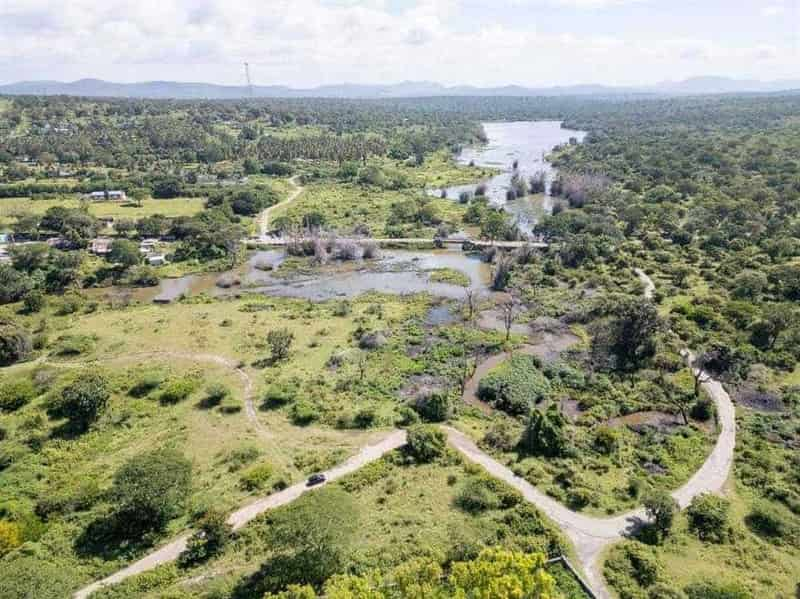
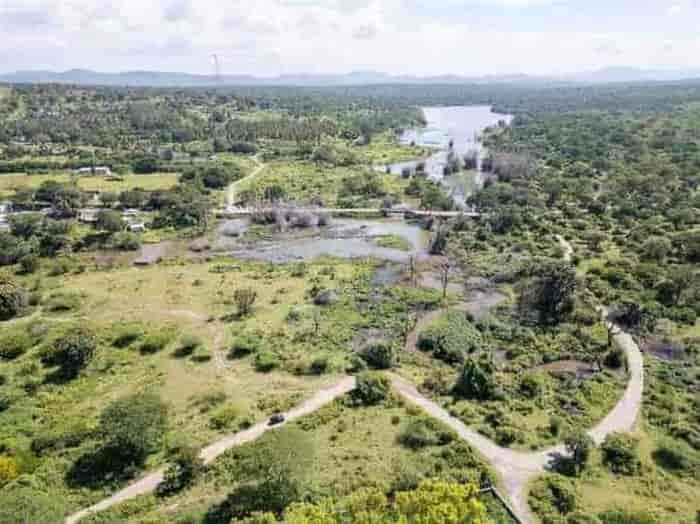
perf: aggressively optimize hero image to 32KB and tour card images to w=300 q=35 webp

diff --git a/src/data/travelData.js b/src/data/travelData.js
@@ -271,7 +271,7 @@ export const toursData = [
     rating: 4.9,
     reviewsCount: 142,
     badge: 'Bestseller',
-    image: 'https://images.unsplash.com/photo-1589182373726-e4f658ab50f0?auto=format&fit=crop&w=400&q=55&fm=webp',
+    image: 'https://images.unsplash.com/photo-1589182373726-e4f658ab50f0?auto=format&fit=crop&w=300&q=35&fm=webp',
     description: 'Explore the princess of hill stations with boat rides on Kodai Lake, Pillar Rocks, Coakers Walk, and serene pine forests.',
     highlights: [
       'Boating on star-shaped Kodaikanal Lake',
@@ -307,7 +307,7 @@ export const toursData = [
     rating: 5.0,
     reviewsCount: 210,
     badge: 'Top Rated',
-    image: 'https://images.unsplash.com/photo-1602216056096-3b40cc0c9944?auto=format&fit=crop&w=400&q=55&fm=webp',
+    image: 'https://images.unsplash.com/photo-1602216056096-3b40cc0c9944?auto=format&fit=crop&w=300&q=35&fm=webp',
     description: 'Breathe the crisp mountain air amidst boundless tea estates, cascading waterfalls, and spice plantation walks.',
     highlights: [
       'Rolling carpet tea plantations of Mattupetty',
@@ -339,7 +339,7 @@ export const toursData = [
     rating: 4.8,
     reviewsCount: 98,
     badge: 'Family Favorite',
-    image: 'https://images.unsplash.com/photo-1544735716-392fe2489ffa?auto=format&fit=crop&w=600&q=70&auto=format',
+    image: 'https://images.unsplash.com/photo-1544735716-392fe2489ffa?auto=format&fit=crop&w=300&q=35&fm=webp',
     description: 'Ride the UNESCO Nilgiri Mountain Railway, visit botanical gardens, tea factories, and enjoy boating on Pykara Lake.',
     highlights: [
       'Historic Nilgiri Mountain Toy Train ride',
@@ -369,7 +369,7 @@ export const toursData = [
     rating: 4.9,
     reviewsCount: 185,
     badge: 'Spiritual Trail',
-    image: 'https://images.unsplash.com/photo-1609766857041-ed402ea8069a?auto=format&fit=crop&w=600&q=70&auto=format',
+    image: 'https://images.unsplash.com/photo-1609766857041-ed402ea8069a?auto=format&fit=crop&w=300&q=35&fm=webp',
     description: 'Experience majestic Dravidian architecture, sacred 22 theerthams, Pamban Sea Bridge, and the ghost town of Dhanushkodi.',
     highlights: [
       'Madurai Meenakshi Amman Temple darshan',
@@ -400,7 +400,7 @@ export const toursData = [
     rating: 4.8,
     reviewsCount: 110,
     badge: 'Relaxation',
-    image: 'https://images.unsplash.com/photo-1506744038136-46273834b3fb?auto=format&fit=crop&w=600&q=70&auto=format',
+    image: 'https://images.unsplash.com/photo-1506744038136-46273834b3fb?auto=format&fit=crop&w=300&q=35&fm=webp',
     description: 'Immerse in the Scotland of India with fragrant coffee plantations, Tibetan Golden Temple, and gushing Abbey Falls.',
     highlights: [
       'Dubare Elephant Camp river rafting & bathing',
@@ -425,7 +425,7 @@ export const toursData = [
     rating: 4.9,
     reviewsCount: 88,
     badge: 'International Special',
-    image: 'https://images.unsplash.com/photo-1537996194471-e657df975ab4?auto=format&fit=crop&w=600&q=70&auto=format',
+    image: 'https://images.unsplash.com/photo-1537996194471-e657df975ab4?auto=format&fit=crop&w=300&q=35&fm=webp',
     description: 'Paradise on earth: lush Ubud rice terraces, cliff-top Uluwatu sunsets with Kecak fire dance, and Nusa Penida island hopping.',
     highlights: [
       'Tegalalang Rice Terraces & Jungle Swing',
@@ -458,7 +458,7 @@ export const toursData = [
     rating: 5.0,
     reviewsCount: 64,
     badge: 'Luxury Global',
-    image: 'https://images.unsplash.com/photo-1530122037265-a5f1f91d3b99?auto=format&fit=crop&w=600&q=70&auto=format',
+    image: 'https://images.unsplash.com/photo-1530122037265-a5f1f91d3b99?auto=format&fit=crop&w=300&q=35&fm=webp',
     description: 'Breathtaking Swiss Alps, crystal-clear Lake Lucerne, Jungfraujoch Top of Europe, and fairytale Black Forest.',
     highlights: [
       'Cogwheel train to Jungfraujoch summit',
@@ -487,7 +487,7 @@ export const toursData = [
     rating: 4.9,
     reviewsCount: 94,
     badge: 'Adventure & Peace',
-    image: 'https://images.unsplash.com/photo-1544735716-392fe2489ffa?auto=format&fit=crop&w=600&q=70&auto=format',
+    image: 'https://images.unsplash.com/photo-1544735716-392fe2489ffa?auto=format&fit=crop&w=300&q=35&fm=webp',
     description: 'Snow-capped peaks of Manali, Solang Valley paragliding, Atal Tunnel, and serene apple orchards of Naggar.',
     highlights: [
       'Atal Tunnel drive to snow-clad Sissu waterfall',
@@ -515,7 +515,7 @@ export const toursData = [
     rating: 4.9,
     reviewsCount: 160,
     badge: 'Trending Tour',
-    image: 'https://images.unsplash.com/photo-1602216056096-3b40cc0c9944?auto=format&fit=crop&w=600&q=70&auto=format',
+    image: 'https://images.unsplash.com/photo-1602216056096-3b40cc0c9944?auto=format&fit=crop&w=300&q=35&fm=webp',
     description: 'Cruise emerald palm backwaters on an authentic luxury houseboat, explore Fort Kochi colonial history, and taste fresh coastal Kerala cuisine.',
     highlights: [
       'Overnight private AC houseboat stay in Alleppey',
@@ -546,7 +546,7 @@ export const toursData = [
     rating: 5.0,
     reviewsCount: 135,
     badge: 'Luxury Vacation',
-    image: 'https://images.unsplash.com/photo-1548013146-72479768bbaa?auto=format&fit=crop&w=600&q=70&auto=format',
+    image: 'https://images.unsplash.com/photo-1548013146-72479768bbaa?auto=format&fit=crop&w=300&q=35&fm=webp',
     description: 'Experience heaven on earth: romantic Dal Lake Shikara rides, Gulmarg snow gondola cable car, Betaab Valley in Pahalgam, and Sonamarg glaciers.',
     highlights: [
       'Shikara boat ride on Dal Lake & stay in heritage houseboat',
@@ -579,7 +579,7 @@ export const toursData = [
     rating: 4.9,
     reviewsCount: 96,
     badge: 'International Special',
-    image: 'https://images.unsplash.com/photo-1512453979798-5ea266f8880c?auto=format&fit=crop&w=600&q=70&auto=format',
+    image: 'https://images.unsplash.com/photo-1512453979798-5ea266f8880c?auto=format&fit=crop&w=300&q=35&fm=webp',
     description: 'Futuristic skyscrapers, 4x4 desert dune bashing with BBQ dinner, Burj Khalifa 124th-floor views, and Dubai Marina luxury dhow cruise.',
     highlights: [
       'Burj Khalifa 124th floor observation deck visit',
@@ -613,7 +613,7 @@ export const travelFleetData = [
     luggage: '2 Medium Bags + 2 Handbags',
     idealFor: 'Couples, small families, airport pickups & city sightseeing',
     features: ['Chilled Air Conditioning', 'Clean Sanitized Interiors', 'Experienced Hill Driver', 'Phone Charger & Music System'],
-    image: 'https://images.unsplash.com/photo-1549399542-7e3f8b79c341?auto=format&fit=crop&w=500&q=70&auto=format',
+    image: 'https://images.unsplash.com/photo-1549399542-7e3f8b79c341?auto=format&fit=crop&w=300&q=35&fm=webp',
     tariffNote: 'Best Rate on Inquiry'
   },
   {
@@ -624,7 +624,7 @@ export const travelFleetData = [
     luggage: '4 Large Bags + Overhead Roof Carrier',
     idealFor: 'Family hill station road trips, outstation touring & long distance comfort',
     features: ['Plush Captain Seat Recliners', 'Dual AC Climate Control', 'Roof Carrier Available', 'Hill-Trained Veteran Driver'],
-    image: 'https://images.unsplash.com/photo-1563720223185-11003d516935?auto=format&fit=crop&w=500&q=70&auto=format',
+    image: 'https://images.unsplash.com/photo-1563720223185-11003d516935?auto=format&fit=crop&w=300&q=35&fm=webp',
     tariffNote: 'Best Rate on Inquiry'
   },
   {
@@ -635,7 +635,7 @@ export const travelFleetData = [
     luggage: '4 Large Bags + Trunk Space',
     idealFor: 'Ultra-smooth eco road trips, corporate VIP travel & plush hill comfort',
     features: ['Ottoman Powered Recliners', 'Whisper-Quiet Hybrid Cabin', 'Sunroof & Ambient Lights', 'Electronic Climate Zones'],
-    image: 'https://images.unsplash.com/photo-1503376780353-7e6692767b70?auto=format&fit=crop&w=500&q=70&auto=format',
+    image: 'https://images.unsplash.com/photo-1503376780353-7e6692767b70?auto=format&fit=crop&w=300&q=35&fm=webp',
     tariffNote: 'Best Rate on Inquiry'
   },
   {
@@ -646,7 +646,7 @@ export const travelFleetData = [
     luggage: '3 Medium Bags + Overhead Storage',
     idealFor: 'Budget-friendly family vacations, temple tours & weekend getaways',
     features: ['Efficient Cooling System', 'Flexible 3-Row Seating', 'Smooth Mountain Suspension', 'Pristine Sanitized Cabin'],
-    image: 'https://images.unsplash.com/photo-1541899481282-d53bffe3c35d?auto=format&fit=crop&w=500&q=70&auto=format',
+    image: 'https://images.unsplash.com/photo-1541899481282-d53bffe3c35d?auto=format&fit=crop&w=300&q=35&fm=webp',
     tariffNote: 'Best Rate on Inquiry'
   },
   {
@@ -657,7 +657,7 @@ export const travelFleetData = [
     luggage: '4 Large Suitcases',
     idealFor: 'Rugged Western Ghats off-road trails, VIP delegations & estate touring',
     features: ['Heavy-Duty 4WD Terrain System', 'Elevated Road Stance', 'Leather Heated Seats', 'Master Hill Chauffeur'],
-    image: 'https://images.unsplash.com/photo-1533473359331-0135ef1b58bf?auto=format&fit=crop&w=500&q=70&auto=format',
+    image: 'https://images.unsplash.com/photo-1533473359331-0135ef1b58bf?auto=format&fit=crop&w=300&q=35&fm=webp',
     tariffNote: 'Best Rate on Inquiry'
   },
   {
@@ -668,7 +668,7 @@ export const travelFleetData = [
     luggage: 'Spacious Dedicated Luggage Boot',
     idealFor: 'Extended family getaways, pilgrimage groups & corporate team outings',
     features: ['Push-back Reclining Seats', 'Individual AC Vents', 'LED TV & Audio System', 'Generous Legroom'],
-    image: 'https://images.unsplash.com/photo-1570125909232-eb263c188f7e?auto=format&fit=crop&w=500&q=70&auto=format',
+    image: 'https://images.unsplash.com/photo-1570125909232-eb263c188f7e?auto=format&fit=crop&w=300&q=35&fm=webp',
     tariffNote: 'Best Rate on Inquiry'
   },
   {
@@ -679,7 +679,7 @@ export const travelFleetData = [
     luggage: 'Executive Luggage Storage',
     idealFor: 'VIP family tours, premium pilgrimage & executive corporate delegates',
     features: ['Aircraft-style Luxury Cabin', 'Panoramic Sealed Windows', 'Individual USB Ports & Lights', 'Air Suspension Ride'],
-    image: 'https://images.unsplash.com/photo-1544620347-c4fd4a3d5957?auto=format&fit=crop&w=500&q=70&auto=format',
+    image: 'https://images.unsplash.com/photo-1544620347-c4fd4a3d5957?auto=format&fit=crop&w=300&q=35&fm=webp',
     tariffNote: 'Best Rate on Inquiry'
   },
   {
@@ -690,7 +690,7 @@ export const travelFleetData = [
     luggage: 'Spacious Underfloor Luggage Bins',
     idealFor: 'College excursions, wedding transport, large group pilgrimages',
     features: ['Air Suspension Smooth Journey', 'Powerful Chiller AC', 'Microphone & Audio System', 'Dual Emergency Exits'],
-    image: 'https://images.unsplash.com/photo-1570125909232-eb263c188f7e?auto=format&fit=crop&w=500&q=70&auto=format',
+    image: 'https://images.unsplash.com/photo-1570125909232-eb263c188f7e?auto=format&fit=crop&w=300&q=35&fm=webp',
     tariffNote: 'Best Rate on Inquiry'
   }
 ];
@@ -768,7 +768,7 @@ export const testimonialsData = [
     location: 'Chennai, Tamil Nadu',
     stay: 'Bamboo Luxury Cottage',
     rating: 5,
-    avatar: 'https://images.unsplash.com/photo-1534528741775-53994a69daeb?auto=format&fit=crop&w=200&q=80',
+    avatar: 'https://images.unsplash.com/photo-1534528741775-53994a69daeb?auto=format&fit=crop&w=120&q=40&fm=webp',
     comment: 'Our stay at Om Muruga Holidays cottage was extraordinary! The bamboo aroma, cool hill breeze, and warm hospitality by the Gowda family made our anniversary unforgettable. Booked directly over WhatsApp seamlessly.'
   },
   {
@@ -777,7 +777,7 @@ export const testimonialsData = [
     location: 'Bangalore, Karnataka',
     stay: 'Elevated Family Treehouse',
     rating: 5,
-    avatar: 'https://images.unsplash.com/photo-1507003211169-0a1dd7228f2d?auto=format&fit=crop&w=200&q=80',
+    avatar: 'https://images.unsplash.com/photo-1507003211169-0a1dd7228f2d?auto=format&fit=crop&w=120&q=40&fm=webp',
     comment: 'The kids loved the treehouse and playing badminton right on the green lawn! The campfire in the evening with hot food was pure bliss. Just called their direct number and got an instant booking confirmation.'
   },
   {
@@ -786,7 +786,7 @@ export const testimonialsData = [
     location: 'Coimbatore, Tamil Nadu',
     stay: 'Kodaikanal Nature Odyssey',
     rating: 5,
-    avatar: 'https://images.unsplash.com/photo-1517841905240-472988babdf9?auto=format&fit=crop&w=200&q=80',
+    avatar: 'https://images.unsplash.com/photo-1517841905240-472988babdf9?auto=format&fit=crop&w=120&q=40&fm=webp',
     comment: 'Booked the tour package over a quick WhatsApp chat. The driver was extremely polite and knowledgeable about scenic photo spots that tourists usually miss. Everything was well coordinated from pickup to drop.'
   },
   {
@@ -795,7 +795,7 @@ export const testimonialsData = [
     location: 'Mysore, Karnataka',
     stay: 'Grand Manor Master Suite',
     rating: 5,
-    avatar: 'https://images.unsplash.com/photo-1500648767791-00dcc994a43e?auto=format&fit=crop&w=200&q=80',
+    avatar: 'https://images.unsplash.com/photo-1500648767791-00dcc994a43e?auto=format&fit=crop&w=120&q=40&fm=webp',
     comment: 'A hidden paradise away from the city noise. The aerial view of the property is as magical in real life as in the drone photos. The breakfast spread was fresh, piping hot, and delicious.'
   }
 ];
@@ -812,25 +812,25 @@ export const teamData = [
     name: 'Thiyagarajan Gowda',
     role: 'Founder & Managing Director',
     bio: 'Hospitality visionary dedicated to creating authentic boutique stays and memorable holiday journeys across South India.',
-    image: 'https://images.unsplash.com/photo-1560250097-0b93528c311a?auto=format&fit=crop&w=600&q=80'
+    image: 'https://images.unsplash.com/photo-1560250097-0b93528c311a?auto=format&fit=crop&w=300&q=35&fm=webp'
   },
   {
     name: 'Pravin Murugan',
     role: 'Head of Tour Operations',
     bio: 'Over 12 years of experience crafting personalized luxury travel circuits across the Western Ghats and international getaways.',
-    image: 'https://images.unsplash.com/photo-1519085360753-af0119f7cbe7?auto=format&fit=crop&w=600&q=80'
+    image: 'https://images.unsplash.com/photo-1519085360753-af0119f7cbe7?auto=format&fit=crop&w=300&q=35&fm=webp'
   },
   {
     name: 'Lakshmi Narayanan',
     role: 'Guest Experience & Concierge Lead',
     bio: 'Passionate about personalized guest care, bespoke dining arrangements, and ensuring seamless check-ins.',
-    image: 'https://images.unsplash.com/photo-1573496359142-b8d87734a5a2?auto=format&fit=crop&w=600&q=80'
+    image: 'https://images.unsplash.com/photo-1573496359142-b8d87734a5a2?auto=format&fit=crop&w=300&q=35&fm=webp'
   },
   {
     name: 'Anitha S.',
     role: 'Senior Destination Specialist',
     bio: 'Expert travel planner specializing in family holiday packages, honeymoon suites, and group retreat itineraries.',
-    image: 'https://images.unsplash.com/photo-1580489944761-15a19d654956?auto=format&fit=crop&w=600&q=80'
+    image: 'https://images.unsplash.com/photo-1580489944761-15a19d654956?auto=format&fit=crop&w=300&q=35&fm=webp'
   }
 ];
 

diff --git a/src/data/aboutFleetTripsData.js b/src/data/aboutFleetTripsData.js
@@ -9,7 +9,7 @@ export const driversData = [
     languages: ['Tamil', 'English', 'Malayalam'],
     rating: 4.98,
     badge: 'Master Hill Pilot',
-    image: 'https://images.unsplash.com/photo-1507003211169-0a1dd7228f2d?auto=format&fit=crop&w=400&q=70&auto=format',
+    image: 'https://images.unsplash.com/photo-1507003211169-0a1dd7228f2d?auto=format&fit=crop&w=300&q=35&fm=webp',
     description: 'Veteran hill station navigator with unmatched mastery over mist, hairpin bends, and steep ghat ascents. Renowned for calm, ultra-smooth driving and courteous hospitality.',
     certifications: ['Mountain Driving Certified', 'Zero Accident Record', 'First-Aid Trained']
   },
@@ -23,7 +23,7 @@ export const driversData = [
     languages: ['Tamil', 'Telugu', 'Hindi'],
     rating: 4.95,
     badge: 'Pilgrim & Family Favorite',
-    image: 'https://images.unsplash.com/photo-1500648767791-00dcc994a43e?auto=format&fit=crop&w=400&q=70&auto=format',
+    image: 'https://images.unsplash.com/photo-1500648767791-00dcc994a43e?auto=format&fit=crop&w=300&q=35&fm=webp',
     description: 'Specializes in long-distance highway comfort and temple circuits. Highly praised by elderly guests and families for his patient guidance, punctuality, and temple darshan knowledge.',
     certifications: ['Highway Safety Certified', 'Police Verified', 'Multi-State Permit Pro']
   },
@@ -37,7 +37,7 @@ export const driversData = [
     languages: ['Tamil', 'Malayalam', 'Kannada'],
     rating: 4.96,
     badge: 'Heavy Vehicle Hill Expert',
-    image: 'https://images.unsplash.com/photo-1472099645785-5658abf4ff4e?auto=format&fit=crop&w=400&q=70&auto=format',
+    image: 'https://images.unsplash.com/photo-1472099645785-5658abf4ff4e?auto=format&fit=crop&w=300&q=35&fm=webp',
     description: 'Expert captain for our 12 to 17-seater Tempo Travelers. Navigates narrow plantation lanes and hairpin bends with absolute poise and keeps large families comfortable throughout.',
     certifications: ['Commercial Heavy Passenger Badge', 'Mountain Route Specialist', 'Defensive Driving']
   },
@@ -51,7 +51,7 @@ export const driversData = [
     languages: ['English', 'Tamil', 'Hindi'],
     rating: 4.99,
     badge: 'Executive Chauffeur',
-    image: 'https://images.unsplash.com/photo-1519085360753-af0119f7cbe7?auto=format&fit=crop&w=400&q=70&auto=format',
+    image: 'https://images.unsplash.com/photo-1519085360753-af0119f7cbe7?auto=format&fit=crop&w=300&q=35&fm=webp',
     description: 'Trained in corporate hospitality protocol, airport reception etiquette, and executive VIP transport. Clean-cut, fluent, and exceptionally punctual for high-profile delegates and honeymooners.',
     certifications: ['VIP Protocol Certified', 'English Fluent', 'Luxury Chauffeur Guild']
   }
@@ -89,7 +89,7 @@ export const completedTripsData = [
     vehicleUsed: 'Toyota Innova Crysta (AC)',
     travelers: '6 Guests (Sharma Family)',
     date: 'Completed October 2026',
-    image: 'https://images.unsplash.com/photo-1589182373726-e4f658ab50f0?auto=format&fit=crop&w=500&q=70&auto=format',
+    image: 'https://images.unsplash.com/photo-1589182373726-e4f658ab50f0?auto=format&fit=crop&w=300&q=35&fm=webp',
     rating: 5.0,
     feedback: 'Our driver Murugan was exceptional on the 36 hairpin bends. Super comfortable Innova, spotless interiors, and the bamboo cottage stay arranged in Kodai was divine!',
     badge: 'Family Favorite'
@@ -102,7 +102,7 @@ export const completedTripsData = [
     vehicleUsed: '17-Seater Tempo Traveler (AC)',
     travelers: '14 Guests (Karthik & Extended Family)',
     date: 'Completed September 2026',
-    image: 'https://images.unsplash.com/photo-1544620347-c4fd4a3d5957?auto=format&fit=crop&w=500&q=70&auto=format',
+    image: 'https://images.unsplash.com/photo-1544620347-c4fd4a3d5957?auto=format&fit=crop&w=300&q=35&fm=webp',
     rating: 5.0,
     feedback: 'Traveling with 14 family members including grandparents can be stressful, but Om Muruga Holidays took care of everything. Reclining seats and safe driving throughout the ghat roads.',
     badge: 'Group Pilgrimage'
@@ -115,7 +115,7 @@ export const completedTripsData = [
     vehicleUsed: 'Swift Dzire (AC Sedan)',
     travelers: '2 Guests (Mr. & Mrs. Venkat)',
     date: 'Completed August 2026',
-    image: 'https://images.unsplash.com/photo-1602216056096-3b40cc0c9944?auto=format&fit=crop&w=500&q=70&auto=format',
+    image: 'https://images.unsplash.com/photo-1602216056096-3b40cc0c9944?auto=format&fit=crop&w=300&q=35&fm=webp',
     rating: 5.0,
     feedback: 'The private sedan tour was pure luxury. Driver was discreet, took us to secret tea garden viewpoints away from tourist crowds, and stopped whenever we wanted scenic photos.',
     badge: 'Honeymoon Special'
@@ -128,7 +128,7 @@ export const completedTripsData = [
     vehicleUsed: '14-Seater Tempo Traveler (AC)',
     travelers: '11 Guests (Devotees Group)',
     date: 'Completed July 2026',
-    image: 'https://images.unsplash.com/photo-1590050752117-238cb0fb12b1?auto=format&fit=crop&w=500&q=70&auto=format',
+    image: 'https://images.unsplash.com/photo-1590050752117-238cb0fb12b1?auto=format&fit=crop&w=300&q=35&fm=webp',
     rating: 5.0,
     feedback: 'Perfect temple timings coordinated by driver Senthil. The sea drive across Pamban bridge was awe-inspiring. Clean vehicle and smooth AC cooling even in summer heat.',
     badge: 'Spiritual Darshan'
@@ -141,7 +141,7 @@ export const completedTripsData = [
     vehicleUsed: 'Toyota Innova Crysta (AC)',
     travelers: '5 Guests (Tech Friends Group)',
     date: 'Completed June 2026',
-    image: 'https://images.unsplash.com/photo-1506744038136-46273834b3fb?auto=format&fit=crop&w=500&q=70&auto=format',
+    image: 'https://images.unsplash.com/photo-1506744038136-46273834b3fb?auto=format&fit=crop&w=300&q=35&fm=webp',
     rating: 4.9,
     feedback: 'Flight got delayed by 1 hour at Bangalore, but the chauffeur was waiting patiently with our name board. Driving through Nagarhole forest roads was thrilling yet super safe.',
     badge: 'Adventure & Nature'
@@ -154,7 +154,7 @@ export const completedTripsData = [
     vehicleUsed: 'Force Urbania Luxury Van (VIP)',
     travelers: '12 Corporate Delegates',
     date: 'Completed May 2026',
-    image: 'https://images.unsplash.com/photo-1570125909232-eb263c188f7e?auto=format&fit=crop&w=500&q=70&auto=format',
+    image: 'https://images.unsplash.com/photo-1570125909232-eb263c188f7e?auto=format&fit=crop&w=300&q=35&fm=webp',
     rating: 5.0,
     feedback: 'The Force Urbania is like a business-class flight on wheels. USB charging at every seat, ambient lighting, and aircraft-style luggage storage made our team journey unforgettable.',
     badge: 'Corporate VIP'
